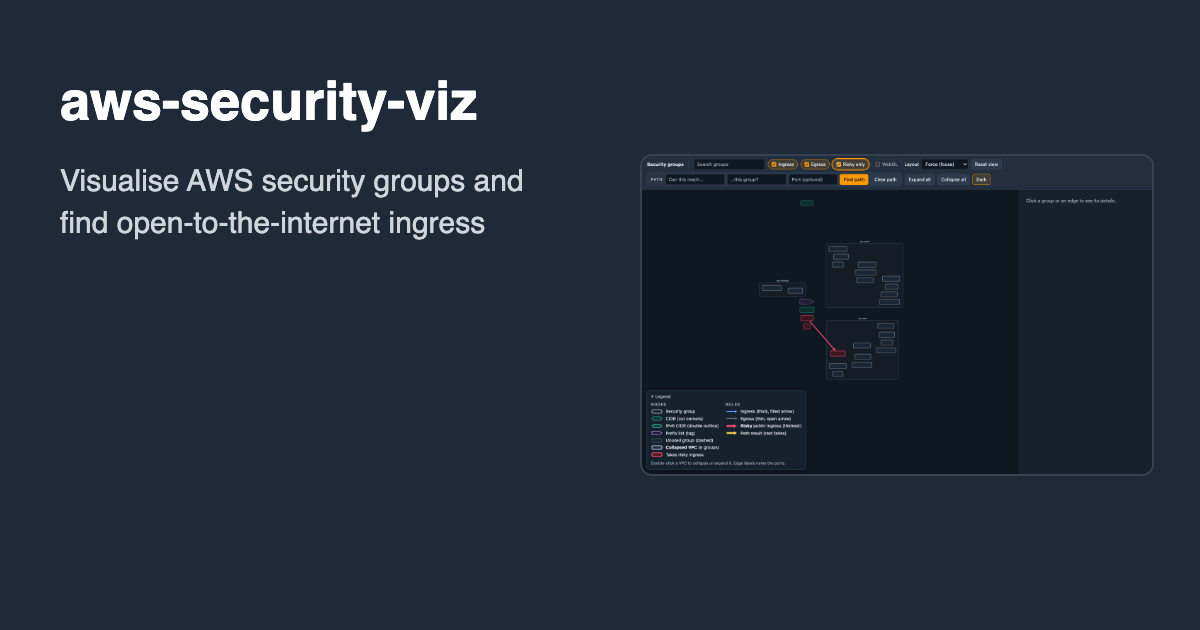
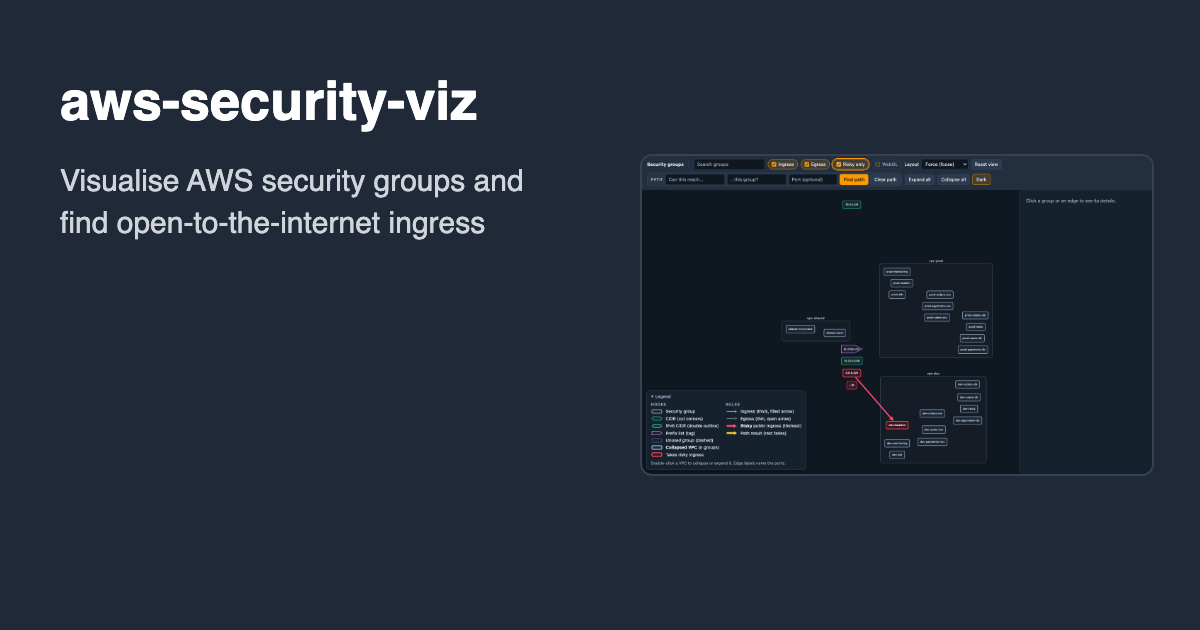
Docs: readable viewer screenshots, wording that matches them, fit gap and changelog

diff --git a/lib/aws_security_viz/export/html/viewer.html b/lib/aws_security_viz/export/html/viewer.html
@@ -734,7 +734,7 @@
   // legend, or the full height beside it.
   function legendBox() {
     var legend = document.getElementById("legend"), box = document.getElementById("cy").getBoundingClientRect(), r = legend.getBoundingClientRect();
-    return { w: r.right - box.left + 12, h: box.bottom - r.top + 12 };
+    return { w: r.right - box.left + 4, h: box.bottom - r.top + 4 };
   }
   // Fit `eles` (everything when empty) into the canvas clear of the legend, at most at zoom `maxZoom`.
   function fitView(eles, pad, maxZoom) {

diff --git a/docs/outputs.md b/docs/outputs.md
@@ -33,7 +33,7 @@ aws_security_viz -o security_groups.json -f viz.html
 
 ![HTML viewer overview in the light theme: three VPCs, the groups in them, the external peers on the left and a thick red edge from 0.0.0.0/0 to a bastion group](assets/viewer-overview.png)
 
-![The same viewer in the dark theme](assets/viewer-overview-dark.png)
+![The same viewer in the dark theme, zoomed to the dev VPC and the external peers](assets/viewer-overview-dark.png)
 
 1. Search. Type in the search box to find and centre matching groups.
 2. Ingress, Egress and Risky only toggles. Risky only keeps the risky edges and hides the rest.
@@ -61,7 +61,7 @@ aws_security_viz -o security_groups.json -f viz.html
 8. Can X reach Y. Type a source and a target (a security group, CIDR or other peer, by name or id; the boxes suggest
    matches) and press Enter or Find path. The answer comes from the security group rules, the way AWS evaluates them,
    and not from the drawn edges, so the Ingress, Egress and Risky only toggles never change it (the path stays visible
-   whatever they say). The shortest path is drawn in the theme's path colour (orange in the dark theme, black in the light one) and the rest dimmed; collapsed VPCs on the path are opened,
+   whatever they say). The shortest path is drawn in the theme's path colour (yellow in the dark theme, black in the light one) and the rest dimmed; collapsed VPCs on the path are opened,
    the view is fitted to the path, and Clear path (or Reset view) puts back the collapsed VPCs, zoom and position.
    The exact rules:
    1. A hop from group A to group B is allowed only when A has an egress rule that allows B and B has an ingress rule
@@ -144,11 +144,11 @@ aws_security_viz -o security_groups.json -f viz.html
     colours keep a contrast of at least 3:1 against the canvas (4.5:1 for text). No web fonts are loaded: the page
     uses the system font stack. Reports made with `--obfuscate` keep these shapes.
 
-![Risky only toggle: the 22/tcp edge from 0.0.0.0/0 to app](assets/viewer-risky-only.png)
+![Risky only toggle in the dark theme: only the 22/tcp edge from 0.0.0.0/0 to dev-bastion is left](assets/viewer-risky-only.png)
 
-![Details panel for the risky edge: direction ingress, ports 22/tcp, risky public ingress](assets/viewer-details.png)
+![Details panel for the risky edge from 0.0.0.0/0 to dev-bastion: direction ingress, ports 22/tcp, risky public ingress, with the rest of the graph dimmed](assets/viewer-details.png)
 
-![Search for "app": the matching group is centred and the rest dimmed](assets/viewer-search.png)
+![Search for "orders": the matching groups in both environments have a highlighted outline](assets/viewer-search.png)
 
 The page has a Content-Security-Policy and makes no network requests; see [Security](security.md#4-data-handling).
 

diff --git a/CHANGELOG.md b/CHANGELOG.md
@@ -25,6 +25,7 @@ This project adheres to [Semantic Versioning](http://semver.org/).
 - `--obfuscate` help text lists everything it hashes
 
 ### Fixed
+- The HTML viewer draws a VPC as exposed (red outline) whenever it is collapsed, including by Collapse all or a double-click, and no longer keeps that fill when it is opened
 - The HTML viewer's panel for an opened VPC has a Collapse button in every layout and mentions double-click only where it works (the exposure rings draw no VPC boxes to double-click)
 - The HTML viewer no longer opens blank or without edges: node sizes are measured up front instead of left to the renderer, so layouts no longer see zero-size nodes (this also fixes clicks missing nodes, Expand all drawing no edges and the WebGL switch showing a blank canvas)
 - Collapsed VPCs, expanded VPCs, peers and groups no longer overlap after a layout; expanding a VPC moves its neighbours instead of covering them
